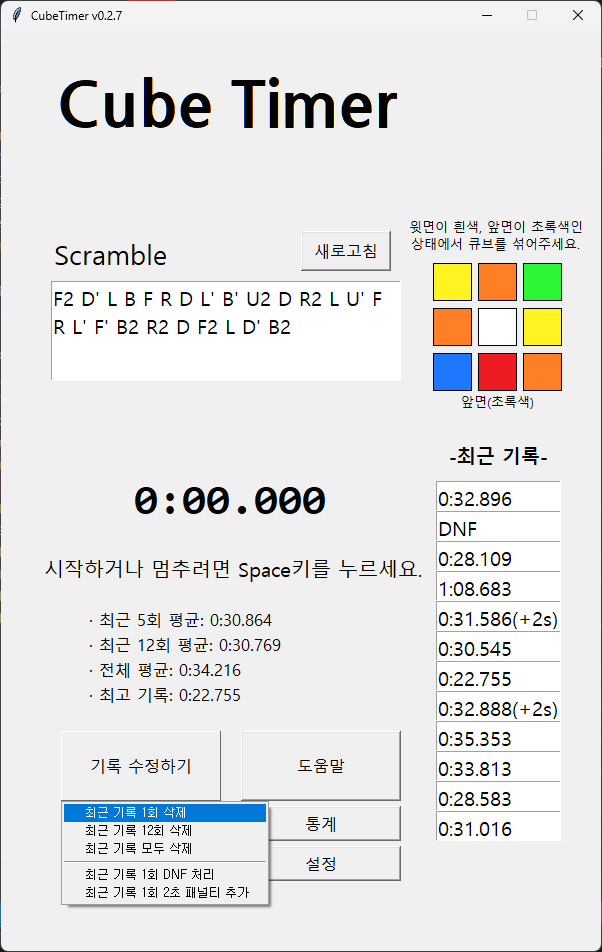
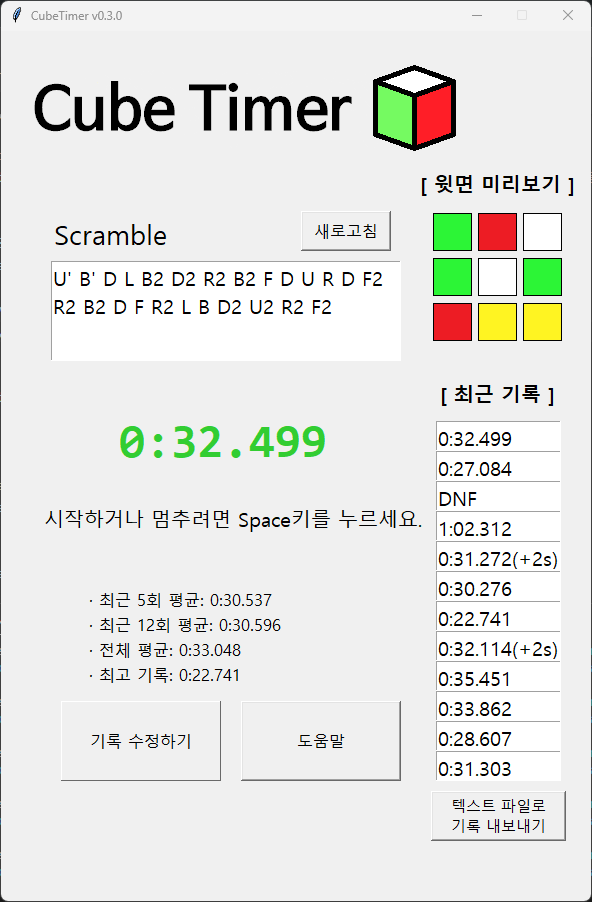
CubeTimer_v0.3.0

diff --git a/Cube_Timer.py b/Cube_Timer.py
@@ -1,11 +1,11 @@
 #-*- coding:utf-8 -*-
-# Cube_Timer v0.2.8 --------- by SnapFlip20
+# Cube_Timer v0.3.0 --------- by SnapFlip20
 
 import tkinter as tk
 from tkinter import messagebox, scrolledtext
 import datetime, os, time, statistics, sys
 
-version = 'v0.2.8'
+version = 'v0.3.0'
 
 try:
     sys.path.append("./scr")
@@ -19,6 +19,31 @@ try:
     import showScrambleImg
 except ModuleNotFoundError:
     sys.stderr.write('Error: cannot find showScrambleImg.py.\n')
+
+def checkFileSetting():
+    if not os.path.isfile('Cube_Timer_logo.gif'):
+        sys.stderr.write('Error: cannot find Cube_Timer_logo.gif.\n')
+        messagebox.showerror('.../Cube_Timer_logo.gif 파일이 존재하지 않습니다.')
+        return False
+    if not os.path.isfile('record.cbtm'):
+        sys.stderr.write('Error: cannot find record.cbtm.\n')
+        messagebox.showerror('.../record.cbtm 파일이 존재하지 않습니다.')
+        return False
+    if not os.path.isfile('recordDB.cbtm'):
+        sys.stderr.write('Error: cannot find recordDB.cbtm.\n')
+        messagebox.showerror('.../recordDB.cbtm 파일이 존재하지 않습니다.')
+        return False
+    if not os.path.isfile('isP.cbtm'):
+        sys.stderr.write('Error: cannot find isP.cbtm.\n')
+        messagebox.showerror('.../isP.cbtm 파일이 존재하지 않습니다.')
+        return False
+    if not genScramble._test():
+        sys.stderr.write('Error: There was an error in src/genScramble.py.\n')
+        messagebox.showerror('.../scr/genScramble.py 파일에서 오류가 발생했습니다.')
+        return False
+    return True
+
+
 
 # -push.bat------------------------------------------------------- #
 def pusher(): # batch file generator for Github push
@@ -61,40 +86,40 @@ def scr_refresh(*_):
         color1, color2, color3, color4, color5, color6, color7, color8, color9
     
     scramble_info = tk.Label(mainWindow, font = ('맑은 고딕', 20), text = 'Scramble')
-    scramble_info.place(x = 50, y = 200)
+    scramble_info.place(x = 50, y = 180)
     scramble_box = tk.Text(mainWindow, font = ('맑은 고딕', 15), wrap = 'word', state = 'normal', width = 10)
-    scramble_box.place(x = 50, y = 250, width = 350, height = 100)
+    scramble_box.place(x = 50, y = 230, width = 350, height = 100)
 
     try:
         scramble_lst = genScramble.gen_scramble()
         scr_result = showScrambleImg.return_color(scramble_lst)
         color1 = tk.PhotoImage(file = "image/{}".format(scr_result[0]+'.gif'))
         colorf1 = tk.Label(mainWindow, image = color1)
-        colorf1.place(x = 430, y = 230)
+        colorf1.place(x = 430, y = 180)
         color2 = tk.PhotoImage(file = "image/{}".format(scr_result[1]+'.gif'))
         colorf2 = tk.Label(mainWindow, image = color2)
-        colorf2.place(x = 475, y = 230)
+        colorf2.place(x = 475, y = 180)
         color3 = tk.PhotoImage(file = "image/{}".format(scr_result[2]+'.gif'))
         colorf3 = tk.Label(mainWindow, image = color3)
-        colorf3.place(x = 520, y = 230)
+        colorf3.place(x = 520, y = 180)
         color4 = tk.PhotoImage(file = "image/{}".format(scr_result[3]+'.gif'))
         colorf4 = tk.Label(mainWindow, image = color4)
-        colorf4.place(x = 430, y = 275)
+        colorf4.place(x = 430, y = 225)
         color5 = tk.PhotoImage(file = "image/{}".format(scr_result[4]+'.gif'))
         colorf5 = tk.Label(mainWindow, image = color5)
-        colorf5.place(x = 475, y = 275)
+        colorf5.place(x = 475, y = 225)
         color6 = tk.PhotoImage(file = "image/{}".format(scr_result[5]+'.gif'))
         colorf6 = tk.Label(mainWindow, image = color6)
-        colorf6.place(x = 520, y = 275)
+        colorf6.place(x = 520, y = 225)
         color7 = tk.PhotoImage(file = "image/{}".format(scr_result[6]+'.gif'))
         colorf7 = tk.Label(mainWindow, image = color7)
-        colorf7.place(x = 430, y = 320)
+        colorf7.place(x = 430, y = 270)
         color8 = tk.PhotoImage(file = "image/{}".format(scr_result[7]+'.gif'))
         colorf8 = tk.Label(mainWindow, image = color8)
-        colorf8.place(x = 475, y = 320)
+        colorf8.place(x = 475, y = 270)
         color9 = tk.PhotoImage(file = "image/{}".format(scr_result[8]+'.gif'))
         colorf9 = tk.Label(mainWindow, image = color9)
-        colorf9.place(x = 520, y = 320)
+        colorf9.place(x = 520, y = 270)
     except:
         sys.stderr.write('Error: scramble loading was failed.\n')
         messagebox.showerror(title = 'Exception', message = 'Scramble 을(를) 구성하는 도중 오류가 발생했습니다.')
@@ -103,10 +128,8 @@ def scr_refresh(*_):
     scramble_box.insert(tk.INSERT, scramble_lst)
     scramble_box.configure(state = 'disabled')
 
-    scr_help1 = tk.Label(mainWindow, font = ('맑은 고딕', 10), text = '윗면이 흰색, 앞면이 초록색인\n상태에서 큐브를 섞어주세요.')
-    scr_help1.place(x = 405, y = 185)
-    scr_help2 = tk.Label(mainWindow, font = ('맑은 고딕', 10), text = '앞면(초록색)')
-    scr_help2.place(x = 457, y = 360)
+    scr_help1 = tk.Label(mainWindow, font = ('맑은 고딕 bold', 15), text = '[ 윗면 미리보기 ]')
+    scr_help1.place(x = 416, y = 135)
 
 def start(*_): # 타이머 시작
     global time_running, start_time, previous_time, now_scr
@@ -156,33 +179,33 @@ def load_record():
     가장 최근에 측정된 기록이 맨 위의 블록에 표시됩니다.
     '''
 
-    record_info1 = tk.Label(mainWindow, font = ('맑은 고딕 bold', 14), text = '-최근 기록-')
-    record_info1.place(x = 445, y = 410)
+    record_info1 = tk.Label(mainWindow, font = ('맑은 고딕 bold', 15), text = '[ 최근 기록 ]')
+    record_info1.place(x = 436, y = 345)
 
     rec1 = tk.Text(mainWindow, font = ('맑은 고딕', 15), wrap = 'word', state = 'normal')
-    rec1.place(x = 435, y = 450, width = 125, height = 30)
+    rec1.place(x = 435, y = 390, width = 125, height = 30)
     rec2 = tk.Text(mainWindow, font = ('맑은 고딕', 15), wrap = 'word', state = 'normal')
-    rec2.place(x = 435, y = 480, width = 125, height = 30)
+    rec2.place(x = 435, y = 420, width = 125, height = 30)
     rec3 = tk.Text(mainWindow, font = ('맑은 고딕', 15), wrap = 'word', state = 'normal')
-    rec3.place(x = 435, y = 510, width = 125, height = 30)
+    rec3.place(x = 435, y = 450, width = 125, height = 30)
     rec4 = tk.Text(mainWindow, font = ('맑은 고딕', 15), wrap = 'word', state = 'normal')
-    rec4.place(x = 435, y = 540, width = 125, height = 30)
+    rec4.place(x = 435, y = 480, width = 125, height = 30)
     rec5 = tk.Text(mainWindow, font = ('맑은 고딕', 15), wrap = 'word', state = 'normal')
-    rec5.place(x = 435, y = 570, width = 125, height = 30)
+    rec5.place(x = 435, y = 510, width = 125, height = 30)
     rec6 = tk.Text(mainWindow, font = ('맑은 고딕', 15), wrap = 'word', state = 'normal')
-    rec6.place(x = 435, y = 600, width = 125, height = 30)
+    rec6.place(x = 435, y = 540, width = 125, height = 30)
     rec7 = tk.Text(mainWindow, font = ('맑은 고딕', 15), wrap = 'word', state = 'normal')
-    rec7.place(x = 435, y = 630, width = 125, height = 30)
+    rec7.place(x = 435, y = 570, width = 125, height = 30)
     rec8 = tk.Text(mainWindow, font = ('맑은 고딕', 15), wrap = 'word', state = 'normal')
-    rec8.place(x = 435, y = 660, width = 125, height = 30)
+    rec8.place(x = 435, y = 600, width = 125, height = 30)
     rec9 = tk.Text(mainWindow, font = ('맑은 고딕', 15), wrap = 'word', state = 'normal')
-    rec9.place(x = 435, y = 690, width = 125, height = 30)
+    rec9.place(x = 435, y = 630, width = 125, height = 30)
     rec10 = tk.Text(mainWindow, font = ('맑은 고딕', 15), wrap = 'word', state = 'normal')
-    rec10.place(x = 435, y = 720, width = 125, height = 30)
+    rec10.place(x = 435, y = 660, width = 125, height = 30)
     rec11 = tk.Text(mainWindow, font = ('맑은 고딕', 15), wrap = 'word', state = 'normal')
-    rec11.place(x = 435, y = 750, width = 125, height = 30)
+    rec11.place(x = 435, y = 690, width = 125, height = 30)
     rec12 = tk.Text(mainWindow, font = ('맑은 고딕', 15), wrap = 'word', state = 'normal')
-    rec12.place(x = 435, y = 780, width = 125, height = 30)
+    rec12.place(x = 435, y = 720, width = 125, height = 30)
 
     try:
         farec = open('isP.cbtm', 'r')
@@ -278,7 +301,7 @@ def calcAvg5():
         five_avgtxt = tk.Label(mainWindow, font = ('맑은 고딕', 12), text = '· 최근 5회 평균: D N F     ')
     else:
         five_avgtxt = tk.Label(mainWindow, font = ('맑은 고딕', 12), text = '· 최근 5회 평균: ' + time_converter(avg5))
-    five_avgtxt.place(x = 85, y = 575)
+    five_avgtxt.place(x = 85, y = 555)
 
 def calc12():
     '''
@@ -315,7 +338,7 @@ def calcAvg12():
         twelve_avgtxt = tk.Label(mainWindow, font = ('맑은 고딕', 12), text = '· 최근 12회 평균: D N F     ')
     else:
         twelve_avgtxt = tk.Label(mainWindow, font = ('맑은 고딕', 12), text = '· 최근 12회 평균: ' + time_converter(avg12))
-    twelve_avgtxt.place(x = 85, y = 600)
+    twelve_avgtxt.place(x = 85, y = 580)
 
 def calcAvgall():
     '''
@@ -347,7 +370,7 @@ def calcAvgall():
             all_avgtxt = tk.Label(mainWindow, font = ('맑은 고딕', 12), text = '· 전체 평균: D N F     ')
         else:
             all_avgtxt = tk.Label(mainWindow, font = ('맑은 고딕', 12), text = '· 전체 평균: ' + time_converter(avgall))
-        all_avgtxt.place(x = 85, y = 625)
+        all_avgtxt.place(x = 85, y = 605)
     except:
         sys.stderr.write('Error: There was an error while calculating all average.\n')
         messagebox.showerror(title = 'Exception', message = '"record.cbtm" 을(를) 읽는 동안 문제가 발생했습니다.\n파일을 임의로 수정한 적이 있었는지 확인해보십시오.')
@@ -382,7 +405,7 @@ def best_score():
             best_scoretxt = tk.Label(mainWindow, font = ('맑은 고딕', 12), text = '· 최고 기록: D N F     ')
         else:
             best_scoretxt = tk.Label(mainWindow, font = ('맑은 고딕', 12), text = '· 최고 기록: ' + time_converter(best))
-        best_scoretxt.place(x = 85, y = 650)
+        best_scoretxt.place(x = 85, y = 630)
         farec.close()
     
     except:
@@ -662,7 +685,7 @@ class Timer(tk.Frame): # 메인 윈도우 구성
     def __init__(self):
         global mainWindow, time_running, start_time, stop_time, previous_time, elapsed_time,\
             time_txt, logo_image,\
-                penalty_bt, penalty_bt_menu, help_bt, setting_bt, textsave_bt
+                penalty_bt, penalty_bt_menu, help_bt, textsave_bt
         
         mainWindow.title('CubeTimer ' + version)
         time_running = False
@@ -684,27 +707,27 @@ class Timer(tk.Frame): # 메인 윈도우 구성
 
         # scramble
         scr_refresh_bt = tk.Button(mainWindow, font = ('맑은 고딕', 12), text = '새로고침', command = scr_refresh)
-        scr_refresh_bt.place(x = 300, y = 200, width = 90, height = 40)
+        scr_refresh_bt.place(x = 300, y = 180, width = 90, height = 40)
         if not time_running:
             scr_refresh()
 
         # timer
-        time_txt = tk.Label(mainWindow, text = '0:00:00', font = ('consolas 32 bold'))
-        time_txt.place(x = 130, y = 440)
+        time_txt = tk.Label(mainWindow, text = '0:00:00', font = ('consolas 35 bold'))
+        time_txt.place(x = 115, y = 380)
         mainWindow.bind('<space>', change_txtcol)
         mainWindow.bind('<KeyRelease-space>', start)
         time_txt.configure(text = '0:00:00', fg = 'black')
         reset()
 
         time_info = tk.Label(mainWindow, font = ('맑은 고딕', 15), text = '시작하거나 멈추려면 Space키를 누르세요.')
-        time_info.place(x = 40, y = 520)
+        time_info.place(x = 40, y = 470)
 
         # stat
         bundle1()
 
         # button
         penalty_bt = tk.Menubutton(mainWindow, font = ('맑은 고딕', 12), text = '기록 수정하기', relief = 'raised', direction = 'below')
-        penalty_bt.place(x = 60, y = 700, width = 160, height = 70)
+        penalty_bt.place(x = 60, y = 670, width = 160, height = 80)
         penalty_bt_menu = tk.Menu(penalty_bt, tearoff = 0)
         penalty_bt_menu.add_command(label = '최근 기록 1회 삭제', command = del_record1)
         penalty_bt_menu.add_command(label = '최근 기록 12회 삭제', command = del_record12)
@@ -715,13 +738,10 @@ class Timer(tk.Frame): # 메인 윈도우 구성
         penalty_bt["menu"] = penalty_bt_menu
 
         help_bt = tk.Button(mainWindow, font = ('맑은 고딕', 12), text = '도움말', command = help_win)
-        help_bt.place(x = 240, y = 700, width = 160, height = 70)
+        help_bt.place(x = 240, y = 670, width = 160, height = 80)
 
-        setting_bt = tk.Button(mainWindow, font = ('맑은 고딕', 12), text = '설정', command = comming_soon) 
-        setting_bt.place(x = 240, y = 780, width = 160, height = 70)
-
-        textsave_bt = tk.Button(mainWindow, font = ('맑은 고딕', 11), text = '텍스트 파일로\n내보내기', command = record_to_txt)
-        textsave_bt.place(x = 430, y = 825, width = 135, height = 50)
+        textsave_bt = tk.Button(mainWindow, font = ('맑은 고딕', 11), text = '텍스트 파일로\n기록 내보내기', command = record_to_txt)
+        textsave_bt.place(x = 430, y = 760, width = 135, height = 50)
 
         # ---Main UI setting end-----------------------------------------------
 
@@ -758,8 +778,11 @@ def comming_soon():
 
 # -run------------------------------------------------------------ #
 if __name__ == "__main__":
+    if not checkFileSetting():
+        sys.exit()
+
     mainWindow = tk.Tk()
-    mainWindow.geometry("600x920+100-100")
+    mainWindow.geometry("590x870+100-100")
     mainWindow.resizable(width = False, height = False)
 
     pusher()

diff --git a/scr/showScrambleImg.py b/scr/showScrambleImg.py
@@ -116,5 +116,3 @@ def return_color(sc_lst):
             w[0][2], w[1][2], w[2][2], r[0][2], r[1][2], r[2][2], y[0][2], y[1][2], y[2][2], o[0][0], o[1][0], o[2][0] = r[0][2], r[1][2], r[2][2], y[0][2], y[1][2], y[2][2], o[2][0], o[1][0], o[0][0], w[2][2], w[1][2], w[0][2]
 
     return dd[w[0][2]], dd[w[1][2]], dd[w[2][2]], dd[w[0][1]], dd[w[1][1]], dd[w[2][1]], dd[w[0][0]], dd[w[1][0]], dd[w[2][0]]
-
-

diff --git a/scr/genScramble.py b/scr/genScramble.py
@@ -24,7 +24,7 @@ def isValid(array):
             array[x][0] = random.choice(dir1)
     return array
 
-def _debug():
+def _test():
     test = gen_scramble()
     b = True
 
@@ -35,4 +35,4 @@ def _debug():
         if test[x][0] == test[x-2][0]:
             b = False
     
-    print('Test passed.' if b else 'Failed.')
+    return b

diff --git a/update_log.md b/update_log.md
@@ -83,3 +83,8 @@
 * 0.2.8(2022/12/25)
     * 통계 버튼 삭제
     * 텍스트 파일로 저장 기능 구현
+* 0.3.0(2023/1/10)
+    * 설정 버튼 삭제
+    * 예외 처리 기능 수정
+    * 일부 label 레이아웃 변경
+    * 로고 변경
